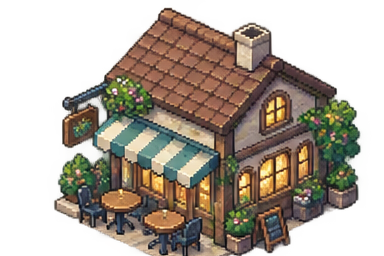
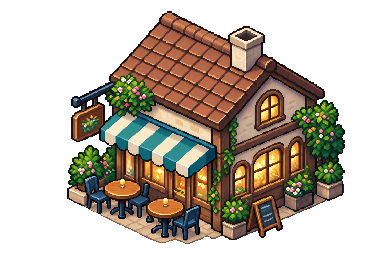
fix: 街マップ画像の見切れを修正

diff --git a/docs/town-map-interactions.md b/docs/town-map-interactions.md
@@ -7,7 +7,21 @@
 - `public/assets/maps/hoshikawa-town.json`: 草は淡いセージ、道は砂色、石畳はアイボリー、川は淡い青緑。既存のテクスチャを残し、色の強さを抑えています。
 - `floor.legend.*.tone = { color: "#RRGGBB", mix: 0〜1 }`: 画像の上へ指定色を混ぜる任意設定。既存の`color`は従来どおり乗算です。明度を上げる調整には`tone`を使います。指定がない家・会場の床は従来どおりです。
 - `map-layers.tsx`: 調色は元画像のコピーに対して行い、素材と調色設定の組ごとにテクスチャを共有。描画終了時に破棄します。元PNGやロード済み画像を書き換えません。
-- 花壇・プランター・川沿いのベンチ・街灯・木を計8点追加し、北側の建物前に石畳を追加。5つのスポットと橋・川の配置は維持しました。新規画像生成は不要と判断し、既存素材のみを使用しています。
+- 花壇・プランター・川沿いのベンチ・街灯・木を計8点追加し、北側の建物前に石畳を追加。5つのスポットと橋・川の配置は維持しました。
+
+## マップ画像の再作成
+
+2026-09-22、元画像の端に建物・樹木・別オブジェクトの断片が接していたため、内蔵 `image_gen` で街マップの12素材を再作成しました。
+
+- 対象: `lobby`、`office`、`cafe`、`home`、`bridge`、`fountain`、`tree`、`bench`、`lamp`、`planter`、`flowerbed`、`fence`。
+- 出力はすべて384×256のRGBA PNG。生成画像をアスペクト比を保って縮小・中央配置し、低アルファの光彩を除いて四周を完全透過にしました。
+- `hoshikawa-town.json` の全置物に `trimTransparent: true` を指定。安全な透明余白を素材側に残しつつ、描画時は可視範囲を既存の `width` / `height` 内へ収めます。
+
+共通プロンプト:
+
+> Use case: precise-object-edit. Asset type: transparent PNG sprite for the KasagiChat isometric town map. Recreate the same intended building or prop from the reference in cozy finely shaded isometric pixel art. Center one complete object with a clearly transparent safety margin on every side. Remove clipped neighboring fragments, stray colored pixels, colored outlines, halos, glow, and edge artifacts. No visible pixel may touch the canvas boundary. Truly transparent RGBA background; no floor tile, scene background, extra object, text, logo, UI, border, checkerboard, or watermark. Crisp readable silhouette at small game-map size.
+
+各画像では上記に、元素材の建物・家具・植栽・色・視点を維持する対象説明と、「屋根、煙突、脚、支柱、花先など対象全体を表示する」という制約を加えました。
 
 ## 選択・ホバー・会話の境界
 
